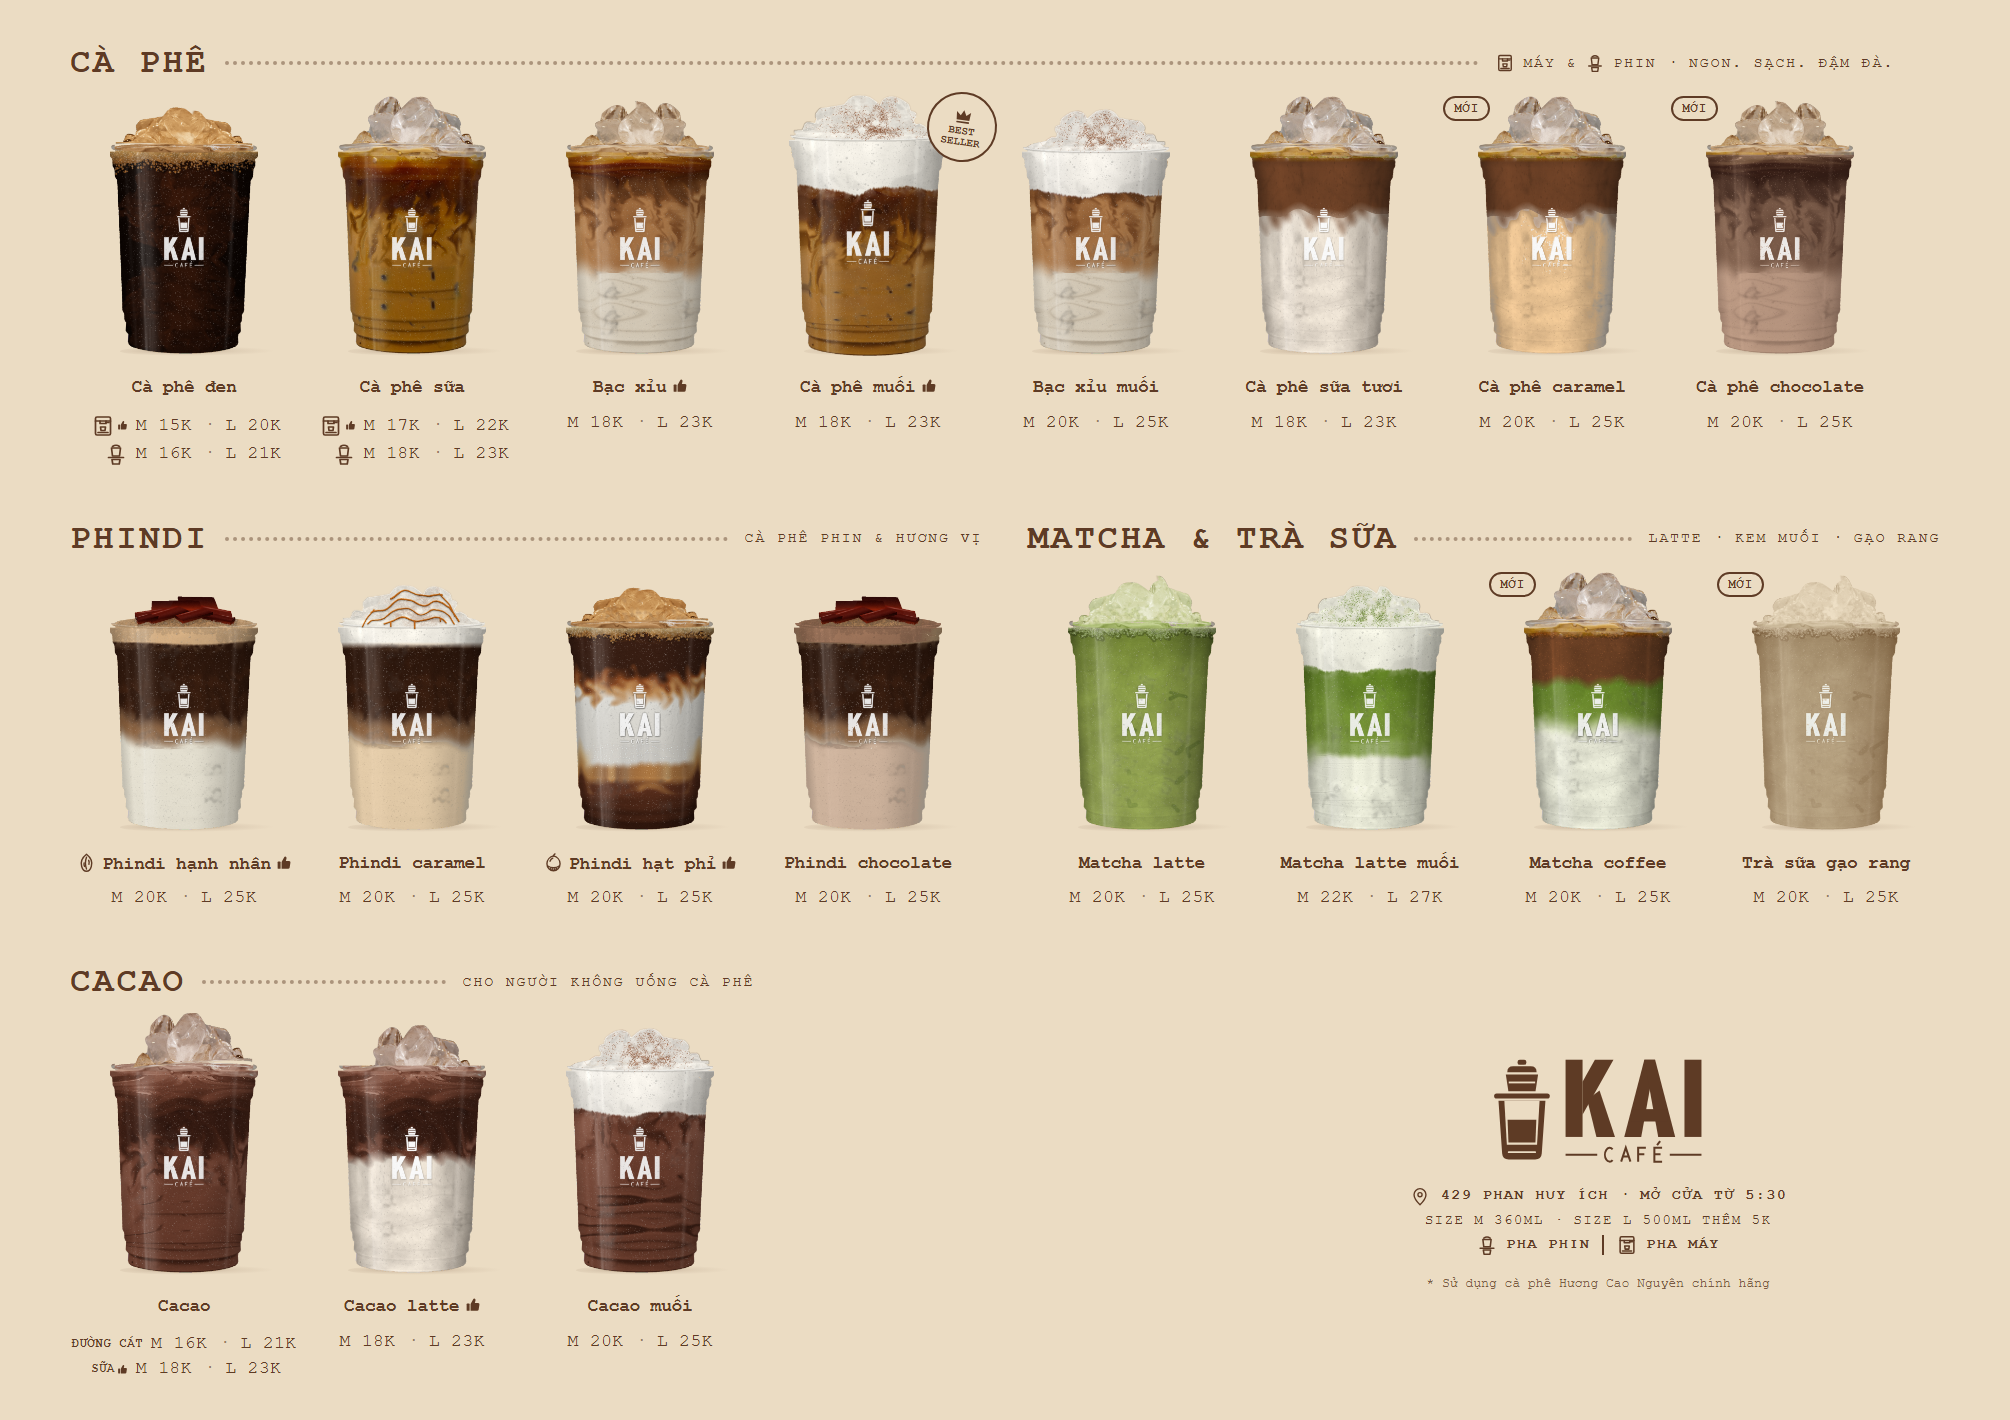
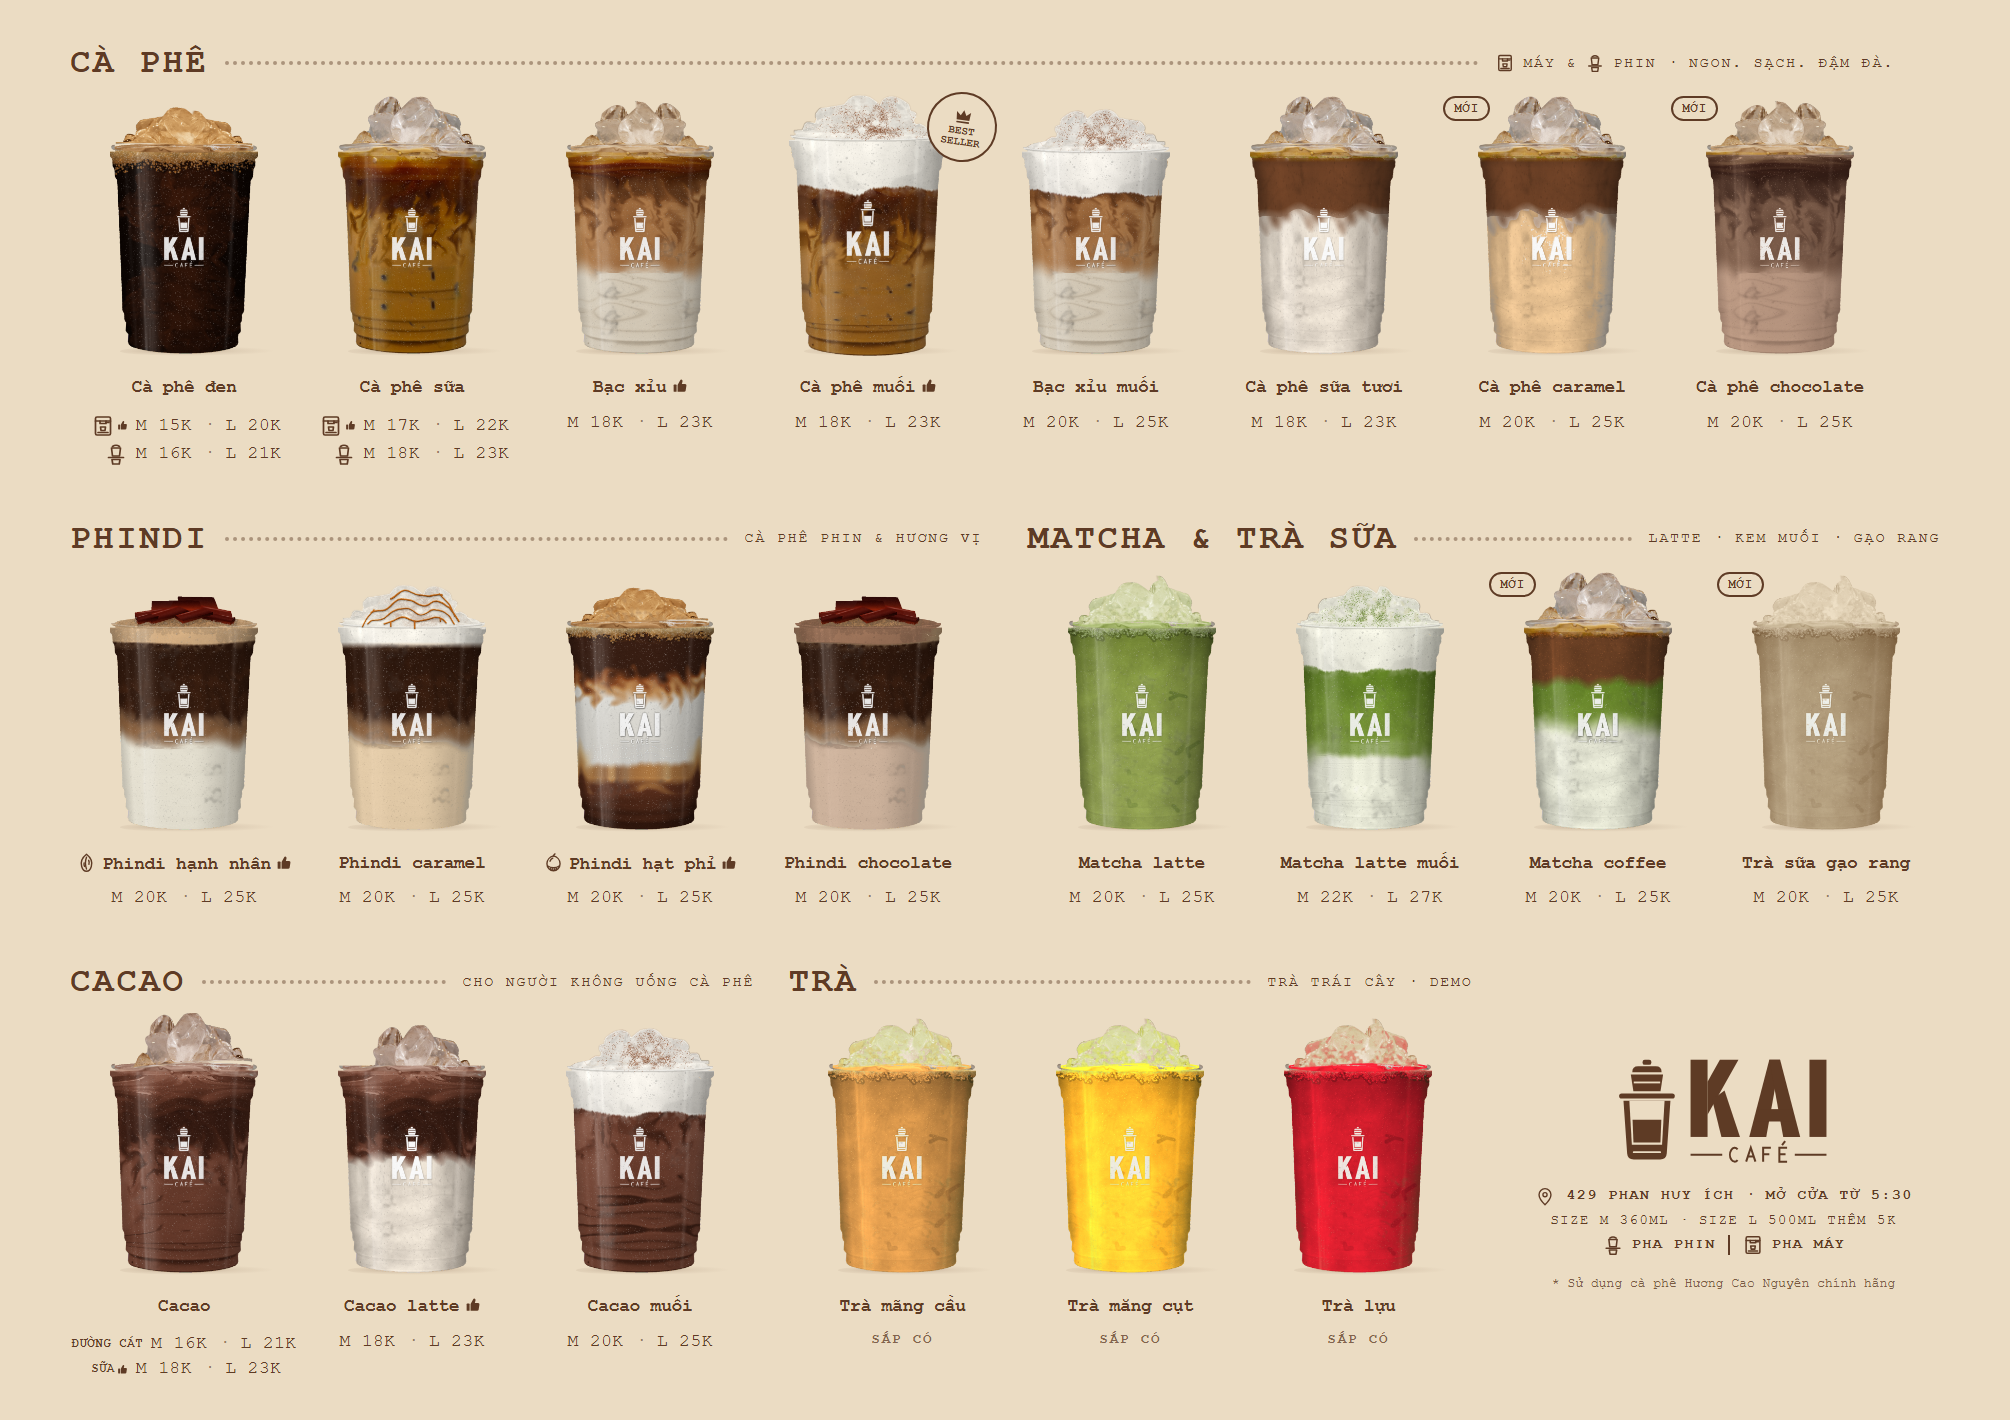
v1.7.317: menu clean them khoi Tra demo

Changed region(s): [[0.5244, 0.7127, 0.9254, 0.9296], [0.401, 0.7127, 0.4935, 0.9296], [0.401, 0.6817, 0.4318, 0.7127]]

diff --git a/index.html b/index.html
@@ -3880,7 +3880,7 @@ function renderPlan(){
 
 /* ============ render: KIỂM CHỨNG (định lượng · công thức · dữ liệu cần thêm · tự kiểm) ============
  * Nguyên tắc: (1) "Data sẵn sàng?" trước khi tin số, (2) chỉ kết luận khi đủ mẫu, (3) giả định và điểm mù hiện ra ở UI, (4) tự kiểm bất biến bằng code chạy trên chính data đang xem. */
-const BAN_DASH = 'v1.7.316';   // bump ĐỦ 3 chỗ: hằng này · dòng đầu CHANGELOG · (chip thanh bên và tiêu đề "Có gì mới" tự lấy từ đây); bất biến 19 kiểm điều này
+const BAN_DASH = 'v1.7.317';   // bump ĐỦ 3 chỗ: hằng này · dòng đầu CHANGELOG · (chip thanh bên và tiêu đề "Có gì mới" tự lấy từ đây); bất biến 19 kiểm điều này
 const KIEM_NL = {   // nguồn số đang dùng + độ tin cậy (1 ước tính · 2 Kai chốt · 3 có hoá đơn / ghi trên bao bì) + cách kiểm cho từng nguyên liệu (mã tab Kho)
   cf:{nguon:'Kai chốt 18g = 45ml, 1 kg ≈ 55 ly; giá 240.000 đ/kg (sổ chi ghi 0 đ vì được tặng 5kg → dùng giá tham chiếu)', tin:2, cach:'Cân 5 lần pha thực tế; sau 3 ngày gõ /kiemkho cf so với số ước tính'},
   cfb:{nguon:'Cà phê Phố Núi 1,5 kg · 375.000 đ – chưa có món nào dùng trong công thức', tin:1, cach:'Xác nhận món phin dùng cà phê hạt hay bột rồi điền cột cfb'},
@@ -3938,6 +3938,7 @@ const GLOSS_KAI = [   // định nghĩa & công thức mọi con số quan trọ
   ['Dự báo ngày mai', 'Chỉ lấy ngày cùng loại giá với ngày mai (giá thường / đồng giá 15K; chưa đủ 3 ngày thì bỏ ngày khai trương 10K) · TB các ngày cùng thứ gần nhất (≥ 2 ngày, thiếu thì TB 7 ngày) × hệ số khuyến mãi / mưa khi đủ dữ liệu', 'Đơn bot', 'Hiệu suất'],
 ];
 const CHANGELOG = [   // dòng đầu = bản hiện hành; mỗi bản nhiều ý ngắn · v1.7.176: chỉ giữ ~12 bản mới nhất ở đây, bản cũ hơn nằm ở changelog-cu.json (tải khi mở Kiểm chứng) — quá 20 bản thì chuyển bớt sang file đó (thêm vào ĐẦU mảng json)
+  {v:'v1.7.317', ngay:'22/11/2026', nd:['Tài liệu: Menu bản clean thêm khối Trà (demo) ở hàng cuối cạnh Cacao — trà mãng cầu, trà măng cụt, trà lựu; ảnh ly đổi màu theo ảnh mẫu, chưa có giá (ghi Sắp có)']},
   {v:'v1.7.316', ngay:'22/11/2026', nd:['Tài liệu: Menu ảnh từng món bản 2 xếp lại 8 · 8 · 3 — trái Cà phê 8 ly, phải Phindi rồi Matcha & trà sữa, hàng cuối Cacao + logo; tên món không còn xuống dòng']},
   {v:'v1.7.315', ngay:'22/11/2026', nd:['Tài liệu: Menu cầm tay đang dùng thêm icon máy / phin (cà phê đen, sữa) và icon hạnh nhân / hạt phỉ như standee, chân menu ghi “mở cửa từ 5:30”', 'Menu bản clean: nền kem như menu cầm tay, xếp Phindi + Matcha & trà sữa lên hàng 2 (2 hàng đầu đều 8 ly), Cacao xuống hàng 3; bản clean và bản 2 thêm icon hạnh nhân / hạt phỉ']},
   {v:'v1.7.314', ngay:'22/11/2026', nd:['Tài liệu: 2 bản menu cầm tay ảnh từng món thêm icon máy / phin ở dòng giá cà phê đen, cà phê sữa cho dễ phân biệt (bản clean chỉ để icon)']},
@@ -5077,7 +5078,7 @@ const TAI_LIEU = [
   {nhom:'Ảnh bìa', ten:'Tối giản · 640 × 700', mo:'Logo giữa, 3 ly, nền be · cỡ ảnh bìa Zalo 640 × 700 (vùng an toàn 640 × 340 ở giữa)', ngay:'08/11/2026', anh:'anh-bia_toi-gian_640x700.png', file:[['Tải ảnh 640 × 700', 'anh-bia_toi-gian_640x700.png']]},
   {nhom:'Ấn phẩm', ten:'Menu cầm tay', mo:'Bản đang dùng · 4 khối Cà phê · Cacao · Phindi · Matcha & trà sữa, có 4 món mới (bán từ 10/11), giá M │ L, nút like món bán chạy · 22/11: thêm icon máy / phin cạnh cà phê đen, sữa và icon hạnh nhân / hạt phỉ như standee, chân menu ghi “mở cửa từ 5:30” · chữ Courier New (PDF in đã chuyển thành hình) · A3 ngang 420 × 297 mm (chưa có lề tràn) · file PDF in: hỏi Marketing (không để trên dashboard)', ngay:'22/11/2026', anh:'menu-cam-tay-icon.png', file:[['Ảnh xem trước', 'menu-cam-tay-icon.png']]},
   {nhom:'Ấn phẩm', ten:'Menu cầm tay · ảnh từng món (nháp)', mo:'Bản 2 chờ chủ duyệt · toàn nền kem, mọi ly cùng cỡ · bố cục 8 · 8 · 3: trái Cà phê │ phải Phindi rồi Matcha & trà sữa │ hàng cuối Cacao + logo, địa chỉ · mỗi món một ảnh ly + nút giá M │ L như standee vòm · cà phê đen / sữa (máy, phin) và cacao (đường cát, sữa) chung một ảnh, mỗi kiểu một dòng giá · ghi “mở cửa từ 5:30” · A3 ngang 420 × 297 mm, chữ đã chuyển thành hình · file PDF in (16 MB): hỏi Marketing (không để trên dashboard)', ngay:'22/11/2026', anh:'menu-anh-tung-mon.png', file:[['Ảnh xem trước', 'menu-anh-tung-mon.png']]},
-  {nhom:'Ấn phẩm', ten:'Menu cầm tay · bản clean (nháp)', mo:'Chờ chủ duyệt · theo mẫu menu tablet: ly nhỏ cùng cỡ xếp thoáng, tiêu đề nhóm nhỏ + đường chấm, giá chữ trơn M · L (không nút) · nền kem như menu cầm tay · 3 hàng: Cà phê (8) │ Phindi + Matcha & trà sữa (8) │ Cacao + logo, địa chỉ · A3 ngang 420 × 297 mm, chữ đã chuyển thành hình · file PDF in (16 MB): hỏi Marketing (không để trên dashboard)', ngay:'22/11/2026', anh:'menu-clean.png', file:[['Ảnh xem trước', 'menu-clean.png']]},
+  {nhom:'Ấn phẩm', ten:'Menu cầm tay · bản clean (nháp)', mo:'Chờ chủ duyệt · theo mẫu menu tablet: ly nhỏ cùng cỡ xếp thoáng, tiêu đề nhóm nhỏ + đường chấm, giá chữ trơn M · L (không nút) · nền kem như menu cầm tay · 3 hàng: Cà phê (8) │ Phindi + Matcha & trà sữa (8) │ Cacao + Trà (demo: mãng cầu, măng cụt, lựu — ảnh đổi màu, chưa giá) + logo, địa chỉ · A3 ngang 420 × 297 mm, chữ đã chuyển thành hình · file PDF in (16 MB): hỏi Marketing (không để trên dashboard)', ngay:'22/11/2026', anh:'menu-clean.png', file:[['Ảnh xem trước', 'menu-clean.png']]},
   {nhom:'Ấn phẩm', ten:'Standee vòm ảnh thật · đã dán sticker', mo:'Standee cắt vòm 59,8 × 101,4 cm, giá chỉ từ 15K · dán 3 sticker Ø 10 cm: +5K size lớn (trái nhãn 15K), mua 5 tặng 1 (phải nhãn 15K), thân thiết −2K (cạnh BEST SELLER) · mở cửa 5:30 – 10:30 · file in có lề 3 mm, chữ đã phá nét (08/11) · gửi nhà in kèm file đường cắt + ghi chú · file PDF in: hỏi Marketing (không để trên dashboard)', ngay:'08/11/2026', anh:'standee-vom_dan-3-sticker.png', file:[['Ảnh đã dán sticker', 'standee-vom_dan-3-sticker.png'], ['PDF đường cắt vòm', 'standee-vom_duong-cat_598x1014mm.pdf'], ['Ghi chú gửi nhà in', 'standee-vom_ghi-chu-nha-in.txt'], ['Ảnh standee chưa dán', 'standee-vom.png'], ['PDF A4 bộ dán standee (3 loại)', 'sticker-tron_A4_bo-dan-standee.pdf']]},
   {nhom:'Ấn phẩm', ten:'Bảng món mới A3', mo:'Bán từ 10/11 · 4 món mới: Cà phê caramel · Cà phê chocolate · Matcha coffee · Trà sữa gạo rang + Phindi caramel · Phindi chocolate (chưa có trên standee vòm) · cả 6 món M 20K │ L 25K · A3 ngang 420 × 297 mm · ảnh ly món mới là ảnh ghép, chưa phải ảnh chụp · file PDF in: hỏi Marketing (không để trên dashboard)', ngay:'09/11/2026', anh:'bang-mon-moi_A3.png', file:[['Ảnh xem trước', 'bang-mon-moi_A3.png']]},
   {nhom:'Ấn phẩm', ten:'Công thức size M │ L có ảnh món', mo:'Mỗi món một thẻ: ảnh ly + định lượng M 360 ml │ L 500 ml · 4 nhóm Cà phê · Cacao · Phindi · Matcha & trà sữa (món muối nằm trong nhóm gốc) · in A3 dán xe · file PDF in: hỏi Marketing (không để trên dashboard)', ngay:'12/11/2026', anh:'cong-thuc-M-L-co-anh.png', file:[['Ảnh xem trước', 'cong-thuc-M-L-co-anh.png']]},
